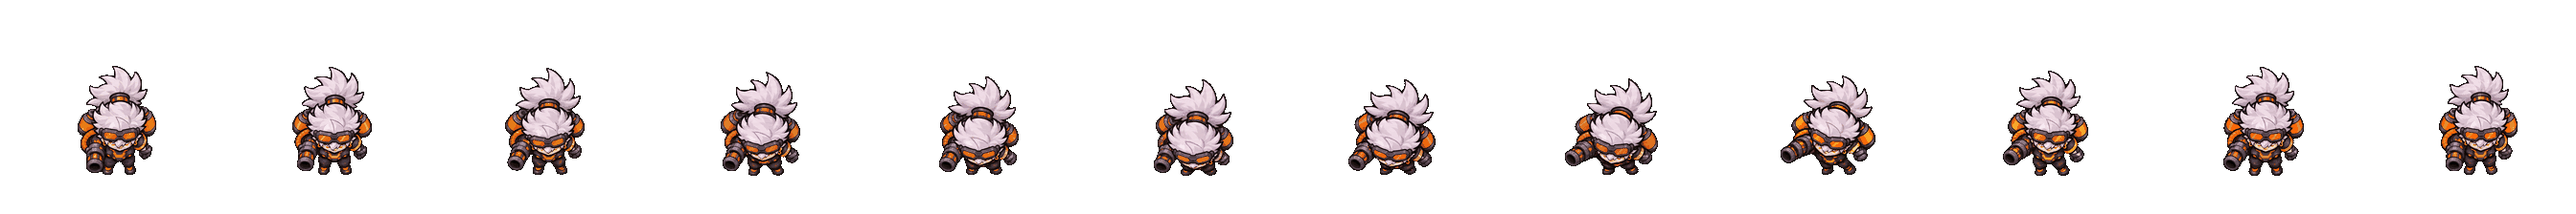
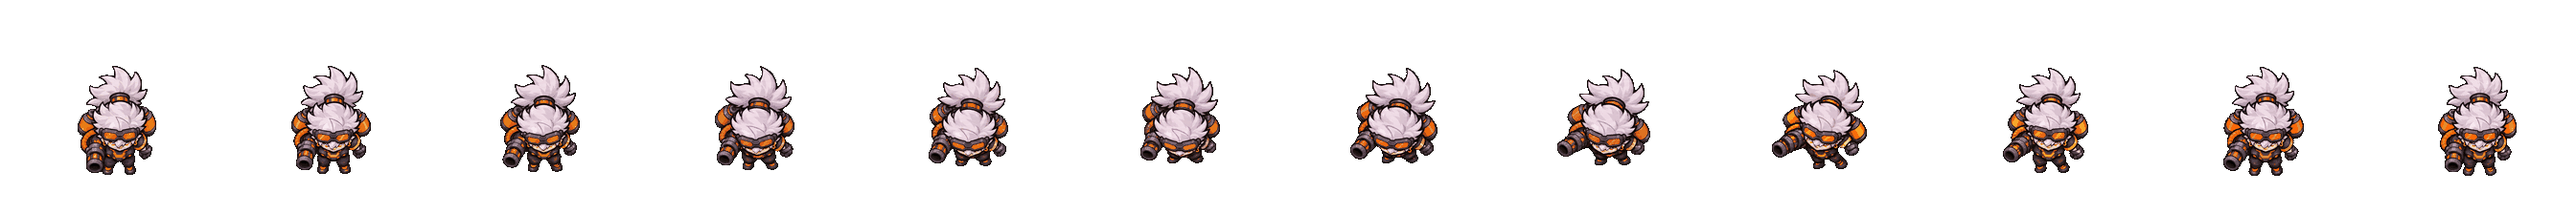
Chuyển sang bản KHÔNG pixel; công cụ khoá thân đứng yên chống rung (vùng tĩnh lấy khung 1)
Claude-Session: https://claude.ai/code/session_016VkJ26f22ubevy4EnREsEV

diff --git a/tools/demo-khoa-than-dung-yen.py b/tools/demo-khoa-than-dung-yen.py
@@ -1,0 +1,22 @@
+# Khoá phần đứng yên: các vùng chỉ khác khung 1 chút (nét vẽ lại lệch) lấy theo khung 1 -> hết rung; vùng thay đổi lớn (tay, súng) giữ của từng khung.
+import sys,os,numpy as np
+from PIL import Image
+from scipy import ndimage
+src,dst,W=sys.argv[1],sys.argv[2],int(sys.argv[3]); T=float(os.environ.get('T',38))
+im=np.array(Image.open(src).convert('RGBA')).astype(float); n=im.shape[1]//W
+F=[im[:,k*W:(k+1)*W] for k in range(n)]; f0=F[0]
+def g(x): return x[...,:3].mean(2)*(x[...,3]/255)
+out=[f0]
+for k in range(1,n):
+    fk=F[k]
+    # căn lệch nguyên điểm ảnh theo vùng thân (tương quan)
+    a,b=g(f0),g(fk); c=np.real(np.fft.ifft2(np.fft.fft2(a)*np.conj(np.fft.fft2(b)))); i=np.unravel_index(np.argmax(c),c.shape)
+    dy,dx=[(v if v<s//2 else v-s) for v,s in zip(i,c.shape)]
+    if abs(dy)<=3 and abs(dx)<=3: fk=np.roll(np.roll(fk,dy,0),dx,1)
+    d=np.abs(fk-f0).sum(2)/4
+    m=ndimage.gaussian_filter(d,3)>T
+    m=ndimage.binary_opening(m,iterations=2); m=ndimage.binary_dilation(m,iterations=6)
+    m=ndimage.gaussian_filter(m.astype(float),2)[...,None]
+    out.append(fk*m+f0*(1-m))
+Image.fromarray(np.concatenate(out,1).clip(0,255).astype(np.uint8)).save(dst)
+print('ok',n)

diff --git a/docs/demo-hop-tuong/BAI-HOC-LOI-SAI.md b/docs/demo-hop-tuong/BAI-HOC-LOI-SAI.md
@@ -28,3 +28,4 @@ Mỗi lỗi: chuyện gì sai → vì sao → cách tránh (bắt buộc làm th
 14. eval bị CSP chặn trên ChatGPT → lưu ảnh bằng fetch(img.src) rồi đưa vào IndexedDB.
 15. Đếm số ảnh trên trang ChatGPT không tin được (trang ẩn bớt ảnh cũ) → so kích thước file với bản trước.
 16. **Mất chi tiết thiết kế** (SCORCH: chỉ còn 1 bình nhiên liệu, mất ống dẫn, súng mất các vạch cam, góc nhìn ngang thay vì top-down cao) — prompt "no glow" làm ChatGPT bỏ luôn vạch sơn cam; chỉ dặn "same design" chung chung. → Trước khi vẽ: lập DANH SÁCH CHI TIẾT từ model sheet (góc nhìn, bình, ống, vạch màu, kính, tóc, khuyên tai, logo…) và ghi đủ trong prompt; sau khi cắt: đặt cạnh model sheet so từng chi tiết trước khi gửi.
+17. **Rung rung (bản không pixel)** — ChatGPT vẽ lại từng khung nên tóc/mặt lệch nét nhỏ mỗi khung → nhấp nháy. → Sau khi cắt chạy `tools/demo-khoa-than-dung-yen.py`: vùng gần như giống khung 1 lấy đúng khung 1 (khoá thân đứng yên), chỉ vùng thay đổi lớn (tay/súng) lấy của từng khung. Đo: sai khác vùng đầu giảm từ ~5–10 xuống ~0–1.
